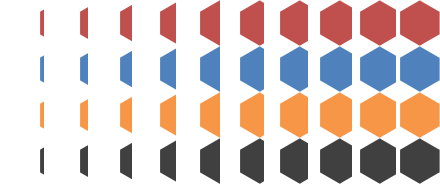
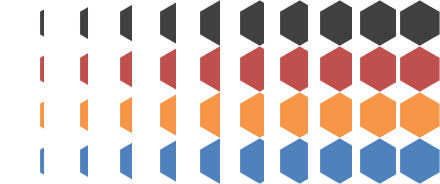
Add tile coloring animations

diff --git a/2pGame/2pGame.js b/2pGame/2pGame.js
@@ -71,6 +71,7 @@ function canvasApp() {
 	var graphX = new Array();
 	var graphY = new Array();
 	var graphZ = new Array();
+	var graphFrame = new Array();
 
 ///////////////////////////////////////////////////////////////////////////////
 //
@@ -101,11 +102,14 @@ function canvasApp() {
 			mouseX = e.layerX - theCanvas.offsetLeft;
 			mouseY = e.layerY - theCanvas.offsetTop;
 		}
-		selection(mouseX, mouseY);
+
+		if(slideState == 0 || slideState == 3) {
+			selection(mouseX, mouseY);
+		}
 	}
 	
 	function eventMouseClick(e) {
-		//selection(mouseX, mouseY);
+		paint(selected, Math.floor(Math.random()* 4));
 	}
 
 ///////////////////////////////////////////////////////////////////////////////
@@ -201,19 +205,21 @@ function canvasApp() {
 		var i, dx, dy, dw, dh;
 		var rect;
 		for(i = 0; i < maxGraph; i++) {
-			dx = (graphX[i] - screenWidth/2) * (1 - graphZ[i]) + screenWidth/2;
-			dy = (graphY[i] - screenHeight/2) * (1 - graphZ[i]) + screenHeight/2;
-			dw = graphCanvas[i].width * graphZ[i];
-			dh = graphCanvas[i].height * graphZ[i];
-			backContext.drawImage(imgShadow, dx, 300 + 130 * (1 - graphZ[i]),  graphCanvas[i].width - dw, 50 * (1 - graphZ[i]));
-
-			if(slideState != 0 && slideState != 3) {
+			if(graphZ[i] > 0) {
+				dx = (graphX[i] - screenWidth/2) * (1 - graphZ[i]) + screenWidth/2;
+				dy = (graphY[i] - screenHeight/2) * (1 - graphZ[i]) + screenHeight/2;
+				dw = graphCanvas[i].width * graphZ[i];
+				dh = graphCanvas[i].height * graphZ[i];
 				backContext.drawImage(graphCanvas[i], dx, dy, graphCanvas[i].width - dw, graphCanvas[i].height - dh);
+				backContext.drawImage(imgShadow, dx, 300 + 130 * (1 - graphZ[i]),  graphCanvas[i].width - dw, 50 * (1 - graphZ[i]));
 			} else {
-				if(selected == i) {
-					continue;
+				if(selected != i) {
+					backContext.drawImage(graphCanvas[i], graphX[i], graphY[i]);				
 				}
-				backContext.drawImage(graphCanvas[i], graphX[i], graphY[i]);
+				if(graphFrame[i] != -1) {
+					drawSubGraph(i, AI.findBorder(i + 61), 0);	
+				}
+				backContext.drawImage(imgShadow, graphX[i], 430,  graphCanvas[i].width, 50);
 			}
 		}
 		if(selected != -1 && (slideState == 0 || slideState == 3)) {
@@ -229,7 +235,8 @@ function canvasApp() {
 		context.font = "14px monospace";
 		context.textAlign = "right";
 		context.fillText("so far so good!", screenWidth, 0);
-		context.fillText("slideState = " + slideState + ", selected = " + selected, screenWidth, 15);
+		context.fillText("mouse = (" + mouseX + ", " + mouseY + ")", screenWidth, 15);
+		context.fillText("slideState = " + slideState + ", selected = " + selected, screenWidth, 30);
 	}
 
 	function resetSlideIn() {
@@ -239,6 +246,8 @@ function canvasApp() {
 		maxGraph = AI.getGraphSize();
 
 		prepareSubGraph();
+		
+		selected = -1;
 		slideState = 1;
 	}
 
@@ -252,6 +261,7 @@ function canvasApp() {
 			}
 		}
 
+		selected = -1;
 		slideState = 4;
 	}
 
@@ -264,13 +274,12 @@ function canvasApp() {
 		graphX.length = 0;
 		graphY.length = 0;
 		graphZ.length = 0;
+		graphFrame.length = 0;
 		for(i = 0; i < maxGraph; i++) {
 			rect = AI.findBorder(i + 61);
 			graphCanvas[i].width = (rect[1] - rect[3] + 1) * tileW + 2 * glowRadius;
 			graphCanvas[i].height = (rect[2] - rect[0]) * tileH * 0.75 + tileH + 2 * glowRadius;
 			graphContext.push(graphCanvas[i].getContext("2d"));
-
-			drawSubGraph(i, rect, 0);
 
 			graphTargetX.push(startX + rect[3] * tileW);
 			if(Math.random() > 0.5) {
@@ -280,6 +289,9 @@ function canvasApp() {
 			}
 			graphY.push(startY + rect[0] * tileH * 0.75);
 			graphZ.push((maxGraph-i-1) * 0.02);
+			graphFrame.push(-1);
+
+			drawSubGraph(i, rect, 0);
 		}
 	}
 
@@ -287,15 +299,14 @@ function canvasApp() {
 		var w = Math.floor(rect[1])-Math.floor(rect[3])+1, h = rect[2]-rect[0]+1;
 		var t = rect[0], l = rect[3];
 		var odd = (l-Math.floor(l) > 0)? 1: 0;
-		var i, j, curRow, offset;
-		var x, y;
 		var subGraph = AI.subGraph(target+61);
-		var neighbor;
 
 		// Clean up subgraph rectangle
 		graphContext[target].clearRect(0, 0, graphCanvas[target].width, graphCanvas[target].height);
 
 		// Draw glow
+		var i, j, curRow, offset;
+		var x, y;
 		if(glowing != 0) {
 			for(i = 0; i < h; i++) {
 				curRow = i * w;
@@ -316,6 +327,8 @@ function canvasApp() {
 		}
 
 		// Draw tiles
+		var color = AI.getColor(target);
+		var neighbor;
 		for(i = 0; i < h; i++) {
 			curRow = i * w;
 			if(odd == 1) {
@@ -328,10 +341,22 @@ function canvasApp() {
 				if(subGraph[curRow+j] != ' ') {
 					x = glowRadius + j * tileW + offset;
 					y = glowRadius + i * tileH * 0.75;
-					graphContext[target].drawImage(imgTiles, 0, 0, tileW, tileH, x, y, tileW, tileH);
 
-					graphContext[target].fillText(target, x + 15, y + 15);
+					// Draw tiles
+					if(graphFrame[target] != -1) {
+						graphContext[target].drawImage(imgTiles, tileW * graphFrame[target], tileH * color, tileW, tileH, x, y, tileW, tileH);
+					} else {
+						if(color != -1) {
+							graphContext[target].drawImage(imgTiles, tileW * 10, tileH * color, tileW, tileH, x, y, tileW, tileH);
+						} else {
+							graphContext[target].drawImage(imgTiles, 0, 0, tileW, tileH, x, y, tileW, tileH);
+						}
+					}
 					
+					// Draw target# for debug
+					//graphContext[target].fillText(target, x + 15, y + 15);
+					
+					// Draw borders
 					neighbor = checkNeighbor(subGraph, curRow+j, w, h, t);	
 					if(neighbor[0] == 1) {
 						graphContext[target].drawImage(imgTileBorder, 0, 0, tileW, tileH, x, y, tileW, tileH);
@@ -343,6 +368,14 @@ function canvasApp() {
 						graphContext[target].drawImage(imgTileBorder, 2*tileW, 0, tileW, tileH, x, y, tileW, tileH);
 					}
 				}
+			}
+		}
+
+		// Push animation
+		if(graphFrame[target] != -1) {
+			graphFrame[target]++;
+			if(graphFrame[target] > 10) {
+				graphFrame[target] = -1;
 			}
 		}
 	}
@@ -379,6 +412,16 @@ function canvasApp() {
 		}
 
 		return output;
+	}
+
+	function paint(groupID, color) {
+		if(groupID == -1) {
+			return;
+		}
+
+		AI.setColor(groupID, color);
+		graphFrame[groupID] = 0;
+		selected = -1;
 	}
 
 	function pushSlide() {
@@ -470,8 +513,10 @@ function canvasApp() {
 			}
 		}
 		if(blockX == -1 || blockY == -1 || blockY == 0) {
-			rect = AI.findBorder(selected + 61);
-			drawSubGraph(selected, rect, 0);
+			if(selected != -1) {
+				rect = AI.findBorder(selected + 61);
+				drawSubGraph(selected, rect, 0);
+			}
 			selected = -1;
 			return;
 		}

diff --git a/2pGame/ColoringProblem_AI.js b/2pGame/ColoringProblem_AI.js
@@ -5,6 +5,7 @@ function ColoringProblem() {
 	var board = new Array(maxCol * maxRow);
 	var groups = new Array();
 	var graph = new Array();
+	var uncolored = new Array();
 
 ///////////////////////////////////////////////////////////////////////////////
 //
@@ -28,6 +29,18 @@ function ColoringProblem() {
 		return graph.length;
 	}
 
+	this.getColor = function(groupID) {
+		return getColor(groupID);
+	}
+
+	this.setColor = function(groupID, color) {
+		return setColor(groupID, color);
+	}
+
+	this.getUncoloredCount = function() {
+		return uncolored.length;
+	}
+
 ///////////////////////////////////////////////////////////////////////////////
 //
 // Board setup subroutines
@@ -36,14 +49,14 @@ function ColoringProblem() {
 
 	this.setupBoard = function() {
 		const removed = 3;
-		const seed = 15;
+		const seed = 20;
 		var emptyCells = new Array();
 		var setupSeq = new Array(maxCol * maxRow);
 		var i, j, tmp;
 
 		// Step 1. Empty the board
 		emptyBoard(emptyCells);
-		for(i = 0; i < seed; i = i+1) {
+		for(i = 0; i < seed; i++) {
 			groups[i] = new Array();
 			graph[i] = new Array();
 		}
@@ -51,7 +64,7 @@ function ColoringProblem() {
 		// Step 2. Remove some cells for randomize
 		setupSeq = emptyCells.slice(0);
 		shuffle(setupSeq);
-		for(i = 0; i < removed; i = i+1) {
+		for(i = 0; i < removed; i++) {
 			board[setupSeq[i]] = ' ';
 			emptyCells.splice(emptyCells.indexOf(setupSeq[i]), 1);
 		}
@@ -59,7 +72,7 @@ function ColoringProblem() {
 		// Step 3. Generate grouping seeds
 		setupSeq = emptyCells.slice(0);
 		shuffle(setupSeq);
-		for(i = 0; i < seed; i = i+1) {
+		for(i = 0; i < seed; i++) {
 			board[setupSeq[i]] = i + 61;
 			groups[i].push(setupSeq[i]);
 			emptyCells.splice(emptyCells.indexOf(setupSeq[i]), 1);
@@ -71,7 +84,7 @@ function ColoringProblem() {
 			setupSeq = emptyCells.slice(0);
 			shuffle(setupSeq);
 
-			for(i = 0; i < j; i = i+1) {
+			for(i = 0; i < j; i++) {
 				tmp = grouping(setupSeq[i]);
 				if(tmp >= 0) {
 					board[setupSeq[i]] = tmp + 61;
@@ -82,7 +95,7 @@ function ColoringProblem() {
 		}
 
 		// Step 5. Confirm the graph
-		for(i = 0; i < seed-1; i = i+1) {
+		for(i = 0; i < seed-1; i++) {
 			for(j = i+1; j < seed; j = j+1) {
 				if(isNeighborG2G(groups[i], groups[j]) == 1) {
 					graph[i].push(j);
@@ -90,13 +103,18 @@ function ColoringProblem() {
 				}
 			}
 		}
+
+		// Step 6. Fill the uncolored array
+		for(i = 0; i < seed; i++) {
+			uncolored.push(i);
+		}
 	}
 
 	function emptyBoard(emptyCells) {
 		var i;
 
 		emptyCells.length = 0;
-		for(i = 0; i < maxCol*maxRow; i = i+1) {
+		for(i = 0; i < maxCol*maxRow; i++) {
 			if(isEdge(i) == 1) {
 				board[i] = ' ';
 			} else {
@@ -116,7 +134,7 @@ function ColoringProblem() {
 		var candidates = new Array();
 		var i, min;
 
-		for(i = 0; i < groups.length; i = i+1) {
+		for(i = 0; i < groups.length; i++) {
 			if(isNeighborG2P(groups[i], xy) == 1) {
 				candidates.push(i);
 			}
@@ -128,7 +146,7 @@ function ColoringProblem() {
 			return candidates[0];
 		} else {
 			min = 0;
-			for(i = 1; i < candidates.length; i = i+1) {
+			for(i = 1; i < candidates.length; i++) {
 				if(groups[i].length < groups[min].length) {
 					min = i;
 				}
@@ -137,8 +155,24 @@ function ColoringProblem() {
 		}
 	}
 
+	function getColor(groupID) {
+		if(groups[groupID][0] > 3 || groups[groupID][0] < 0) {
+			return -1;
+		} else {
+			return groups[groupID][0];
+		}
+	}
+
+	function setColor(groupID, color) {
+		var i;
+		for(i = 0; i < groups[groupID].length; i++) {
+			groups[groupID][i] = color;
+		}
+		uncolored.splice(uncolored.indexOf(groupID), 1);
+	}
+
 	function isNeighborG2G(g1, g2) {
-		for(var i = 0; i < g2.length; i = i+1) {
+		for(var i = 0; i < g2.length; i++) {
 			if(isNeighborG2P(g1, g2[i]) == 1) {
 				return 1;
 			}
@@ -147,7 +181,7 @@ function ColoringProblem() {
 	}
 
 	function isNeighborG2P(g, xy) {
-		for(var i = 0; i < g.length; i = i+1) {
+		for(var i = 0; i < g.length; i++) {
 			if(isNeighborP2P(g[i], xy) == 1) {
 				return 1;
 			}
@@ -195,7 +229,7 @@ function ColoringProblem() {
 	this.findGroup = function(xy) {
 		var i;
 		for(i = 0; i < groups.length; i++) {
-			if(groups[i].indexOf(xy) != -1) {
+			if(groups[i].indexOf(xy) != -1 && getColor(i) == -1) {
 				return i;
 			}
 		}
@@ -292,7 +326,7 @@ function ColoringProblem() {
 
 	function shuffle(target) {
 		var a, b, tmp;
-		for(var i = 0; i < target.length; i = i+1) {
+		for(var i = 0; i < target.length; i++) {
 			a = Math.random();
 			a = a * target.length;
 			a = Math.floor(a);
